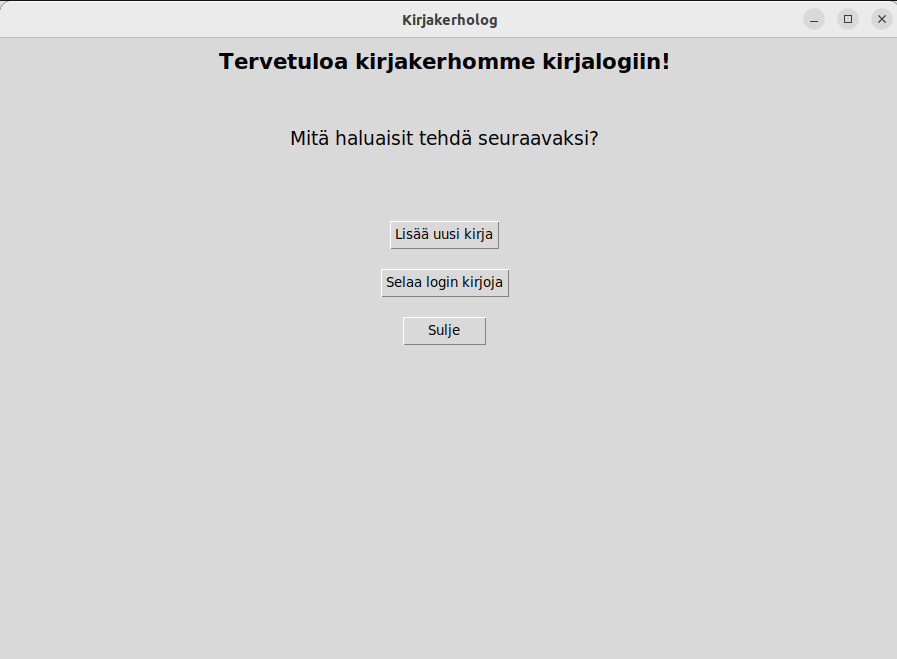
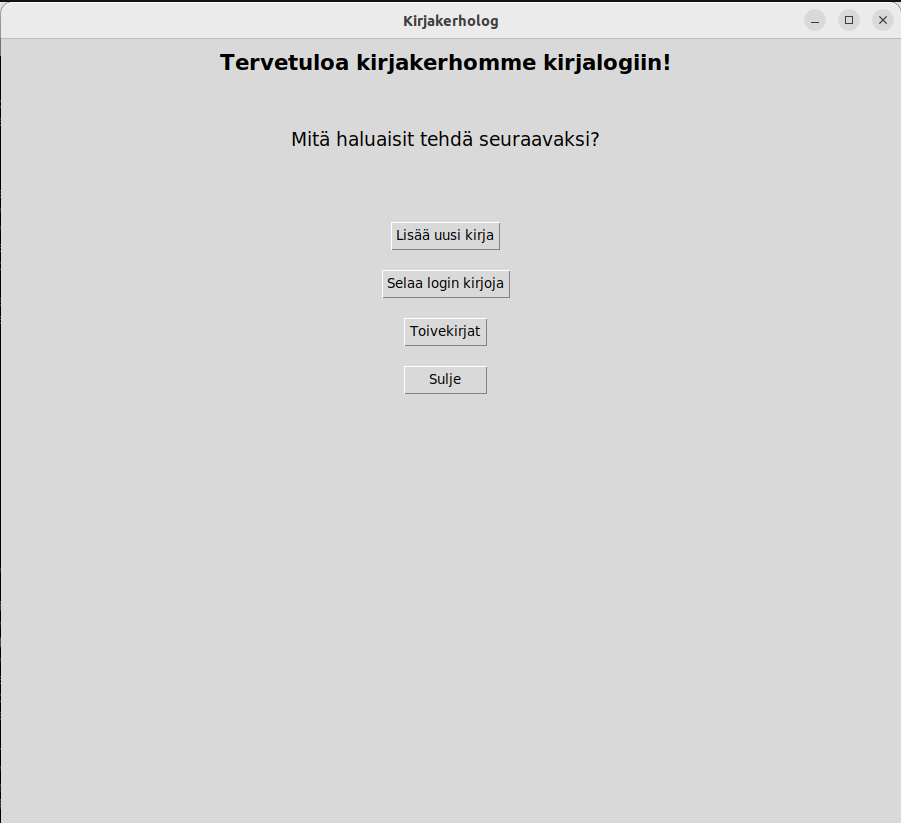
Updating documentation

diff --git a/dokumentaatio/kayttoohje.md b/dokumentaatio/kayttoohje.md
@@ -24,7 +24,7 @@ Sovellus avautuu etusivunäkymään:
 
 ![](./kuvat/etusivu.png)
 
-Etusivulta pääsee siirtymään kahteen uuteen näkymään, kirjanlisäykseen ja kirjojen selaukseen. Sulje- painikkella saa suljettua sovelluksen.
+Etusivulta pääsee siirtymään kolmeen uuteen näkymään, kirjanlisäykseen, kirjojen selaukseen ja toivelistaan. Sulje- painikkella saa suljettua sovelluksen.
 
 ## Uuden kirjan lisääminen
 
@@ -48,3 +48,11 @@ Aluksi selaussivulle on listattu kaikki login kirjat. Niitä voi kuitenkin filtt
 Kirjoja voi selata kirjoittajan tai arvosanojen perusteella.
 Tekstikentän alapuolella on jälleen "Takaisin"- painike, jolla voidaan siirtyä etusivulle.
 Mikäli on tarve poistaa jokin tietty kirja listalta, voidaan listauksen alla olevaan tekstikenttään kirjoittaa poistettavan kirjan nimi, ja painaa vielä "Poista"- painiketta.
+
+## Toivelistan käyttö
+
+Kun etusivulla on painettu "Toivekirjat"- painiketta, aukeaa toivekirjanäkymä:
+
+![](./kuvat/toivelista.png)
+
+Toivelistanäkymässä on listattuna aiemmin lisätyt toivekirjat. Näkymässä pääsee myös poistamaan ja lisäämään kirjoja toivelistalle. Näkymästä pääsee takaisin etusivulle painamalla "Takaisin"- painiketta.

diff --git a/dokumentaatio/tuntikirjanpito.md b/dokumentaatio/tuntikirjanpito.md
@@ -19,4 +19,5 @@
 | 17.12 | 2  | Ui näkymä ja perustoiminnallisuus kirjatoivelistalle
 | 18.12 | 1  | Syötteen validointia kirjatoivelistan ui:ssa
 | 20.12 | 3  | Book olion muokkaus niin, että kirjoilla on myös sarake key, jonka avulla voidaan poistaa kirjoja niin kirjalistasta kuin jo luetuista kirjoista
+| 21.12 |    | Toivelistan viimeistely, unittestien tekoa, service ja repository testikattavuus 100%, dokumentaation päivitys, lopullisen ohjelman testaaminen palautusta varten. Testidokumentin luonti.
 | Yht.  |  46  |

diff --git a/dokumentaatio/testaus.md b/dokumentaatio/testaus.md
@@ -1,0 +1,13 @@
+# Testausdokumentti
+
+## Testikattavuus
+
+![Testikattavuus](./kuvat/testikattavuus.png)
+
+Kattavuudessa jätetään huomiotta UI:hin liittyvät tiedostot
+
+## Jäljelle jääneitä laatuongelmia
+
+- Kirjan poisto selaus- tai toivelistalta ei anna muuta tietoa poiston onnistumisesta, kuin sen että kirja poistuu listalta. Se ei myöskään ilmota, jos 
+yrittää poistaa kirjaa jota ei ole olemassa. 
+- Virheilmoituksissa/ onnistumisilmoituksissa on muitakin puutteita

diff --git a/dokumentaatio/changelog.md b/dokumentaatio/changelog.md
@@ -26,3 +26,10 @@
 - Filtteröinnin korjailua
 - Ohjelmasta poistumiseen luotu nappi
 - Käyttöohjeiden tekoa
+
+## Viikko7
+
+- Luettavien kirjojen toivelistan ui
+- Toivelistan toiminnallisuus
+- Testit 100% servicelle ja repositorylle
+- Dokumentaation päivittämistä (tuntikirjanpito, käyttöohjeet, vaatimustenmäärittely)
